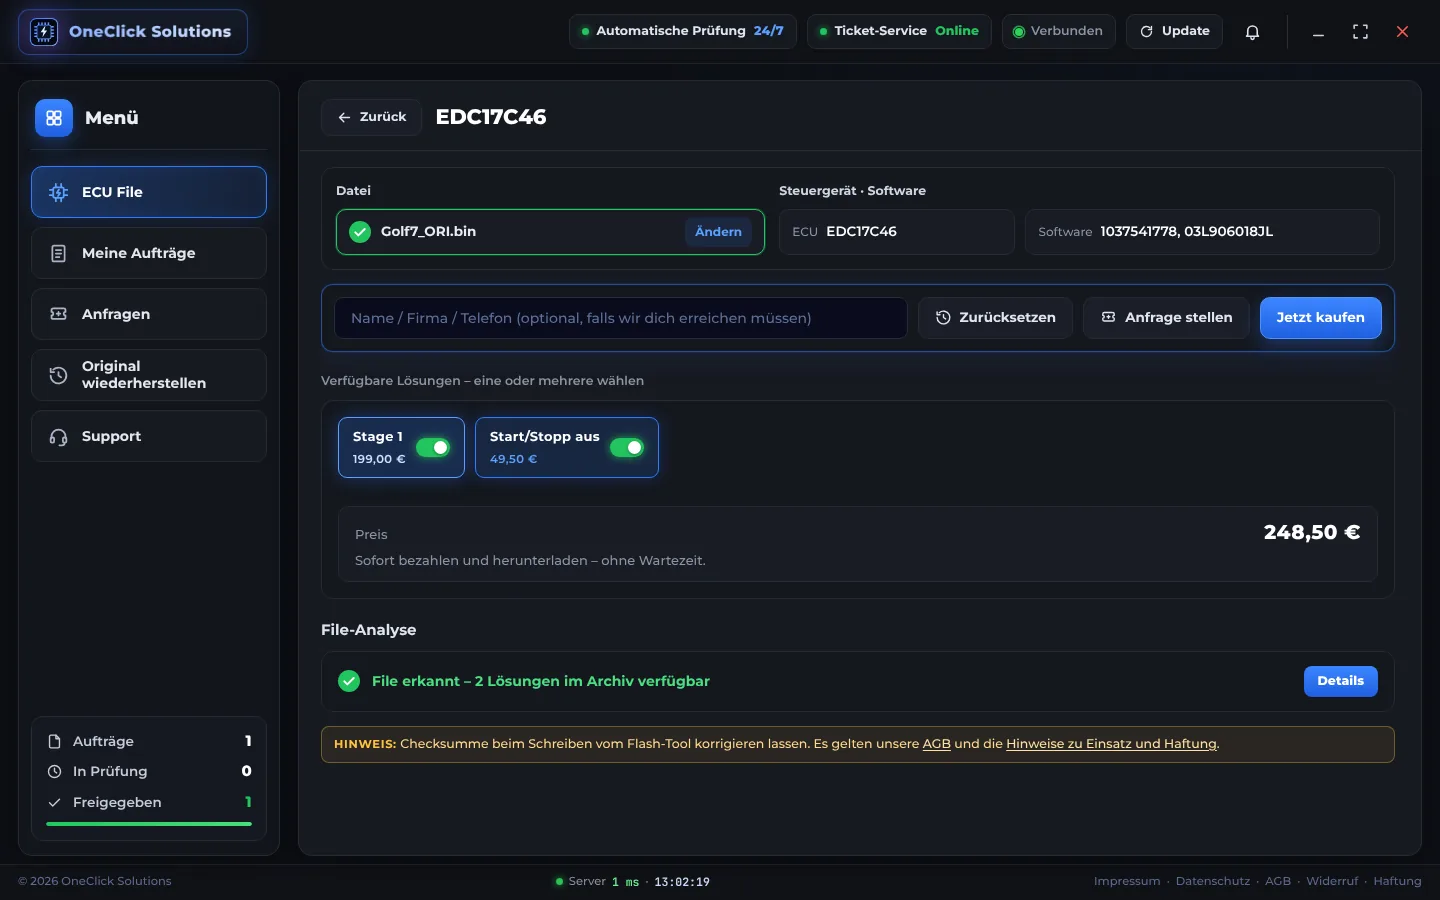
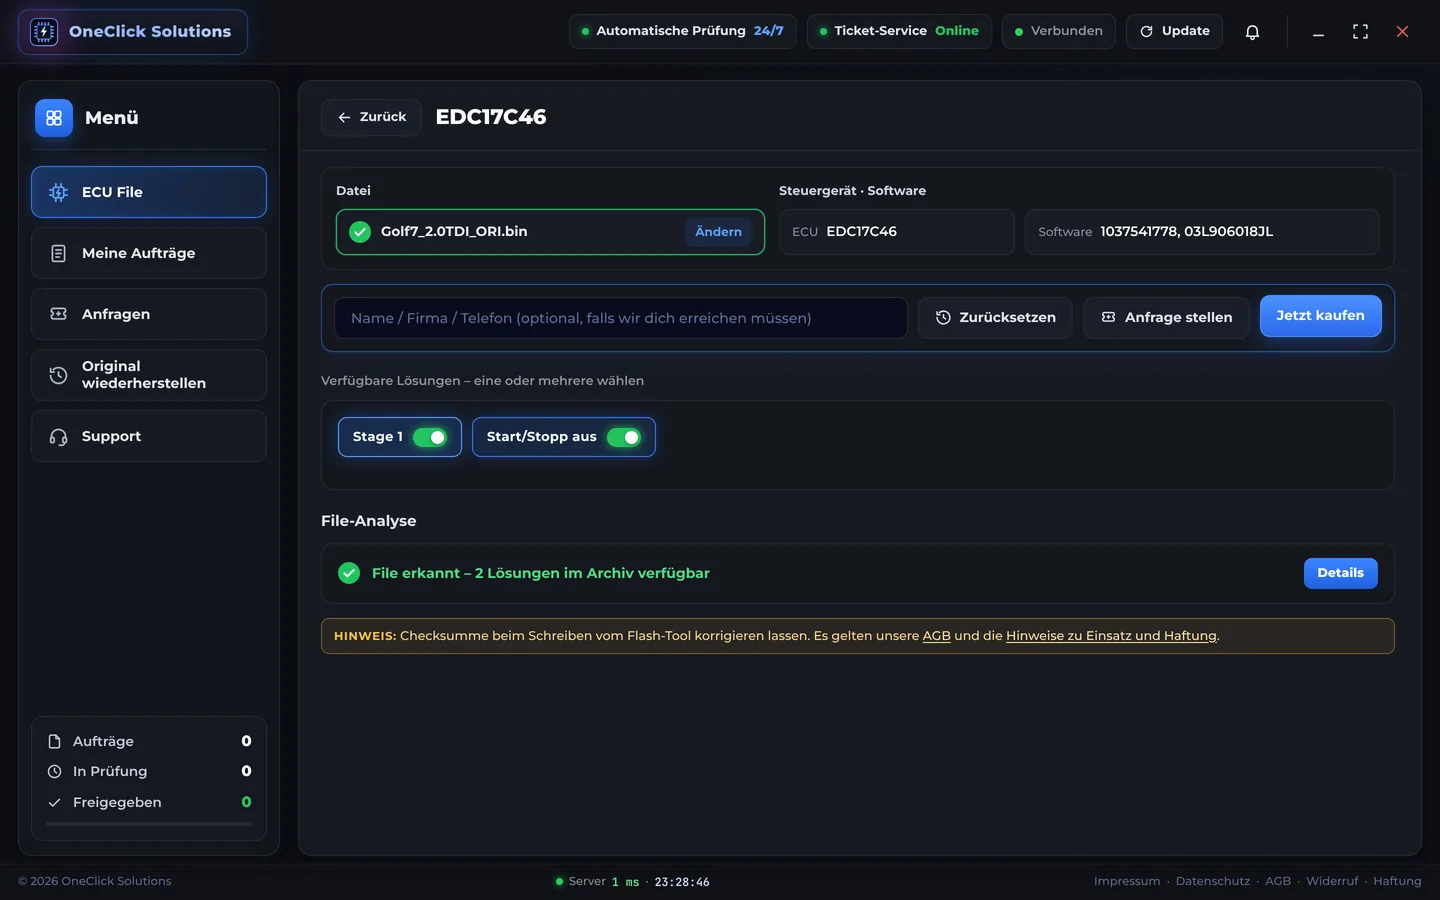
OneClick-Werbeseite: SEO und AEO
- Titel/Beschreibung, Canonical, Open-Graph-Vorschaubild
- Strukturierte Daten: SoftwareApplication, Organization, HowTo, FAQPage (aus einer FAQ-Liste)
- 9 FAQ als Ueberschriften, robots.txt (KI-Dienste erlaubt, Admin/API gesperrt), sitemap.xml, llms.txt
- Admin/Login/Auftraege mit noindex; Rechtstexte mit eigenem Seitentitel
- Programmbild ohne Testpreise

Claude-Session: https://claude.ai/code/session_01QWRn1jTpRRmgaftmLzzd25

diff --git a/app.py b/app.py
@@ -372,6 +372,8 @@ def merken(art: str):
 
 @app.after_request
 def sicherheits_header(antwort):
+    if request.path.startswith(("/admin", "/login", "/api/", "/auftrag/", "/download/", "/logout")):
+        antwort.headers.setdefault("X-Robots-Tag", "noindex, nofollow")
     antwort.headers.setdefault("X-Content-Type-Options", "nosniff")
     antwort.headers.setdefault("X-Frame-Options", "DENY")
     antwort.headers.setdefault("Referrer-Policy", "same-origin")
@@ -614,9 +616,63 @@ def favicon():
 
 @app.route("/bilder/<name>")
 def bild(name):
-    if not re.fullmatch(r"[a-z0-9-]+\.webp", name) or not (BASE / "web" / "bilder" / name).is_file():
+    if not re.fullmatch(r"[a-z0-9-]+\.(webp|png)", name) or not (BASE / "web" / "bilder" / name).is_file():
         abort(404)
-    return send_file(BASE / "web" / "bilder" / name, mimetype="image/webp", max_age=86400)
+    return send_file(BASE / "web" / "bilder" / name, mimetype="image/png" if name.endswith(".png") else "image/webp", max_age=86400)
+
+
+# Fragen der Werbeseite: sichtbar als FAQ und gleichzeitig als strukturierte Daten fuer Google und KI-Antwortdienste
+WERBE_FAQ = [
+    ("Was kostet das Programm?", "Nichts. Du bezahlst nur die Files, die du bestellst – zu festen Preisen, ohne Abo und ohne Credits."),
+    ("Wie lange dauert es, bis ich mein File habe?", "Liegt dein File schon in unserem Archiv, lädst du es direkt nach der Zahlung herunter – rund um die Uhr. "
+     "Bei einer Anfrage erstellen wir das File individuell, das Programm meldet sich, sobald es fertig ist."),
+    ("Wie bezahle ich?", "Sicher über Stripe direkt im Programm – mit Karte, Apple Pay, PayPal und mehr. Die Rechnung kommt per E-Mail."),
+    ("Brauche ich ein Konto?", "Nein. Deine Aufträge merkt sich das Programm auf deinem PC."),
+    ("Für welche Steuergeräte gibt es Files?", "Für alles, was in unserem Archiv liegt – das Programm zeigt es dir sofort nach dem Laden. "
+     "Ist nichts dabei, stellst du eine Anfrage und wir erstellen dein File."),
+    ("Brauche ich ein eigenes Flash-Tool?", "Ja. Du liest das Original selbst aus und spielst das fertige File mit deinem Tool auf – "
+     "zum Beispiel mit dem Magic Motorsport Flex. Die Checksumme korrigiert dein Flash-Tool beim Schreiben."),
+    ("Was mache ich, wenn es ein Problem mit dem File gibt?", "Öffne im Programm unter „Support“ ein Ticket oder klick am Auftrag auf „Problem?“. "
+     "Häng Fehlercodes, Logs oder Screenshots an – wir antworten im Programm und schicken dir ein angepasstes File direkt in den Chat."),
+    ("Gibt es das Programm für Mac oder Handy?", "Für den Mac ja (macOS 11 oder neuer, Intel und Apple-Chip). Fürs Handy gibt es OneClick Solutions nicht – "
+     "du brauchst einen Windows-PC, Laptop oder Mac."),
+    ("Wer steckt hinter OneClick Solutions?", "GH-MAPPING, ein Chiptuning-Fileservice aus Dierdorf (Rheinland-Pfalz). "
+     "Alle Files im Archiv werden in einer lizenzierten WinOLS-5-Umgebung erstellt und geprüft."),
+]
+
+
+def basis_adresse() -> str:
+    return (lade_config().get("basis_url") or request.url_root).rstrip("/")
+
+
+def werbe_daten() -> str:
+    """Strukturierte Daten (schema.org) der Werbeseite als JSON-LD."""
+    b = basis_adresse()
+    daten = {"@context": "https://schema.org", "@graph": [
+        {"@type": "Organization", "@id": "https://gh-mapping.de/#business", "name": "GH-MAPPING", "url": "https://gh-mapping.de/",
+         "email": "chiptuning2002@gmail.com", "telephone": "+49 155 68540674",
+         "address": {"@type": "PostalAddress", "streetAddress": "Hachenburgerstraße 3", "postalCode": "56269",
+                     "addressLocality": "Dierdorf", "addressCountry": "DE"}},
+        {"@type": "WebSite", "@id": b + "/#website", "url": b + "/", "name": PROGRAMM_NAME, "inLanguage": "de-DE",
+         "publisher": {"@id": "https://gh-mapping.de/#business"}},
+        {"@type": "SoftwareApplication", "@id": b + "/#programm", "name": PROGRAMM_NAME, "url": b + "/",
+         "applicationCategory": "BusinessApplication", "operatingSystem": "Windows 10, Windows 11, macOS 11 oder neuer",
+         "description": "Programm zum Bestellen von Chiptuning-Files: Original laden, Steuergerät und Software werden erkannt, "
+                        "Lösung wählen, sicher über Stripe bezahlen und das File sofort herunterladen. Kein Abo.",
+         "downloadUrl": [b + "/download/windows", b + "/download/mac"],
+         "screenshot": [b + "/bilder/programm-auswahl.webp", b + "/bilder/programm-auftraege.webp", b + "/bilder/programm-support.webp"],
+         "featureList": ["Automatische Erkennung von Steuergerät und Software", "Sofort-Kauf von Files aus dem Archiv",
+                         "Anfrage, wenn noch kein File vorhanden ist", "Support-Tickets mit Datei-Anhängen", "Automatische Updates"],
+         "offers": {"@type": "Offer", "price": "0", "priceCurrency": "EUR"},
+         "publisher": {"@id": "https://gh-mapping.de/#business"}},
+        {"@type": "HowTo", "name": "Chiptuning-File mit OneClick Solutions bestellen", "step": [
+            {"@type": "HowToStep", "position": 1, "name": "Programm laden", "text": "OneClick Solutions für Windows oder Mac herunterladen und starten."},
+            {"@type": "HowToStep", "position": 2, "name": "Original laden", "text": "Das ausgelesene Original-File ins Programm ziehen."},
+            {"@type": "HowToStep", "position": 3, "name": "Lösung wählen", "text": "Eine oder mehrere Lösungen anschalten und auf „Jetzt kaufen“ klicken."},
+            {"@type": "HowToStep", "position": 4, "name": "Bezahlen und laden", "text": "Über Stripe bezahlen und das File sofort herunterladen."}]},
+        {"@type": "FAQPage", "mainEntity": [{"@type": "Question", "name": q, "acceptedAnswer": {"@type": "Answer", "text": a}}
+                                            for q, a in WERBE_FAQ]}]}
+    return json.dumps(daten, ensure_ascii=False).replace("</", "<\\/")
 
 
 @app.route("/programm")
@@ -624,7 +680,60 @@ def programm_seite():
     """Werbeseite fuer das Windows-Programm - das ist alles, was Kunden im Browser sehen."""
     cfg = lade_config()
     return render_template("werbung.html", download="/download/windows", download_mac="/download/mac", firma=PROGRAMM_NAME, jahr=datetime.now().year,
-                           whatsapp=re.sub(r"[^0-9]", "", cfg.get("support_whatsapp", STANDARD_WHATSAPP) or ""))
+                           whatsapp=re.sub(r"[^0-9]", "", cfg.get("support_whatsapp", STANDARD_WHATSAPP) or ""),
+                           faq=WERBE_FAQ, jsonld=werbe_daten(), basis=basis_adresse())
+
+
+@app.route("/robots.txt")
+def robots_txt():
+    text = f"""User-agent: *
+Allow: /
+Disallow: /admin
+Disallow: /login
+Disallow: /api/
+Disallow: /auftrag/
+Disallow: /download/
+
+# KI-Suchmaschinen und Antwort-Dienste ausdruecklich erlaubt (gleiche Regeln)
+User-agent: GPTBot
+User-agent: OAI-SearchBot
+User-agent: ChatGPT-User
+User-agent: ClaudeBot
+User-agent: Claude-SearchBot
+User-agent: PerplexityBot
+User-agent: Google-Extended
+Allow: /
+Disallow: /admin
+Disallow: /login
+Disallow: /api/
+Disallow: /auftrag/
+Disallow: /download/
+
+Sitemap: {basis_adresse()}/sitemap.xml
+"""
+    return app.response_class(text, mimetype="text/plain")
+
+
+@app.route("/sitemap.xml")
+def sitemap_xml():
+    b = basis_adresse()
+    seiten = [("/", "1.0")] + [(f"/{n}", "0.3") for n in RECHTLICHES]
+    xml = ('<?xml version="1.0" encoding="UTF-8"?>\n<urlset xmlns="http://www.sitemaps.org/schemas/sitemap/0.9">\n'
+           + "".join(f"  <url><loc>{b}{u}</loc><priority>{pr}</priority></url>\n" for u, pr in seiten) + "</urlset>\n")
+    return app.response_class(xml, mimetype="application/xml")
+
+
+@app.route("/llms.txt")
+def llms_txt():
+    b = basis_adresse()
+    text = (f"# {PROGRAMM_NAME}\n\n> {PROGRAMM_NAME} ist das Programm des Chiptuning-Fileservice GH-MAPPING aus Dierdorf (Deutschland) "
+            "für Windows und Mac. Kunden laden ihr ausgelesenes Original-File, das Programm erkennt Steuergerät und Software und zeigt die "
+            "verfügbaren Lösungen. Files aus dem Archiv werden sofort gekauft (Stripe) und heruntergeladen; gibt es noch nichts, stellt der "
+            "Kunde eine Anfrage. Kein Abo, keine Credits. Die Files werden in einer lizenzierten WinOLS-5-Umgebung erstellt.\n\n"
+            f"## Links\n- Programm und Download: {b}/\n- Windows: {b}/download/windows\n- Mac: {b}/download/mac\n"
+            "- Fileservice-Website: https://gh-mapping.de/\n- Kontakt: chiptuning2002@gmail.com, WhatsApp +49 155 68540674\n\n"
+            "## Häufige Fragen\n" + "".join(f"\n### {q}\n{a}\n" for q, a in WERBE_FAQ))
+    return app.response_class(text, mimetype="text/plain")
 
 
 @app.route("/")
@@ -2878,7 +2987,7 @@ TEMPLATES = {
 "basis.html": """<!doctype html>
 <html lang="de"><head><meta charset="utf-8">
 <meta name="viewport" content="width=device-width, initial-scale=1">
-<title>{{ firma }}</title>
+<title>{% if titel is defined and titel %}{{ titel }} | {{ programm_name }}{% else %}{{ firma }}{% endif %}</title>
 <meta name="theme-color" content="#040919">
[1 lines of base64/hex data omitted]
 <style>
@@ -3524,8 +3633,17 @@ Es wird kein Auftrag angelegt, nichts bezahlt und keine Nachricht verschickt.</p
 {% endblock %}""",
 "werbung.html": """<!doctype html>
 <html lang="de"><head><meta charset="utf-8"><meta name="viewport" content="width=device-width, initial-scale=1">
-<title>{{ firma }} – Programm für Windows und Mac</title>
-<meta name="description" content="OneClick Solutions: Chiptuning-Files als Programm für Windows und Mac. Original laden, Lösung wählen, sofort bezahlen und herunterladen. Kein Abo.">
+<title>OneClick Solutions – Chiptuning-Files sofort laden | Windows &amp; Mac</title>
+<meta name="description" content="Kostenloses Programm für Chiptuning-Files: Original laden, Lösung wählen, über Stripe bezahlen und sofort herunterladen. Windows &amp; Mac, ohne Abo.">
+<link rel="canonical" href="{{ basis }}/">
+<meta name="robots" content="index, follow, max-image-preview:large">
+<meta property="og:type" content="website"><meta property="og:site_name" content="{{ firma }}"><meta property="og:locale" content="de_DE">
+<meta property="og:url" content="{{ basis }}/"><meta property="og:title" content="OneClick Solutions – Chiptuning-Files mit einem Klick">
+<meta property="og:description" content="Original laden, Lösung wählen, sofort herunterladen. Kostenlos für Windows &amp; Mac, ohne Abo.">
+<meta property="og:image" content="{{ basis }}/bilder/og-oneclick.png"><meta property="og:image:width" content="1200"><meta property="og:image:height" content="630">
+<meta property="og:image:alt" content="OneClick Solutions – Programm für Chiptuning-Files">
+<meta name="twitter:card" content="summary_large_image"><meta name="twitter:image" content="{{ basis }}/bilder/og-oneclick.png">
+<script type="application/ld+json">{{ jsonld|safe }}</script>
 <meta name="theme-color" content="#0d0f14">
[1 lines of base64/hex data omitted]
 <link rel="alternate icon" href="/favicon.ico">
@@ -3585,7 +3703,7 @@ h2{font-size:clamp(26px,3.4vw,38px);margin:0 0 10px;font-weight:800;letter-spaci
 .hinweis{margin-top:22px;padding:16px 18px;border-radius:12px;border:1px solid rgba(255,194,61,.35);background:rgba(255,194,61,.07);color:#ffd88a;font-size:14.5px}
 .hinweis b{color:#ffc23d}
 .faq details{border:1px solid var(--rand);background:var(--karte);border-radius:12px;padding:16px 18px;margin-bottom:10px}
-.faq summary{cursor:pointer;font-weight:700}.faq p{color:var(--leise);margin:10px 0 0}
+.faq summary{cursor:pointer;font-weight:700}.faq summary h3{display:inline;font:inherit;margin:0}.faq p{color:var(--leise);margin:10px 0 0}
 .cta{text-align:center;padding:50px 24px;border-radius:18px;border:1px solid rgba(47,123,255,.45);
  background:radial-gradient(600px 240px at 50% 0%,rgba(47,123,255,.22),transparent 70%),var(--karte)}
 .cta p{color:var(--leise);margin:0 0 24px}
@@ -3650,12 +3768,8 @@ footer .rechts{margin-left:auto;display:flex;gap:16px;flex-wrap:wrap}
 </div></section>
 <section id="faq" class="faq"><div class="breit">
  <h2>Häufige Fragen</h2><p class="unter">Noch etwas offen? Schreib uns einfach.</p>
- <details><summary>Was kostet das Programm?</summary><p>Nichts. Du bezahlst nur die Files, die du bestellst – zu festen Preisen, ohne Abo.</p></details>
- <details><summary>Brauche ich ein Konto?</summary><p>Nein. Deine Aufträge merkt sich das Programm auf deinem PC.</p></details>
- <details><summary>Für welche Steuergeräte gibt es Files?</summary><p>Für alles, was in unserem Archiv liegt – das Programm zeigt es dir sofort nach dem Laden. Ist nichts dabei, stellst du eine Anfrage und wir erstellen dein File.</p></details>
- <details><summary>Was mache ich, wenn es ein Problem mit dem File gibt?</summary><p>Öffne im Programm unter „Support“ ein Ticket oder klick am Auftrag auf „Problem?“. Häng Fehlercodes, Logs oder Screenshots an – wir antworten im Programm und schicken dir ein angepasstes File direkt in den Chat.</p></details>
- <details><summary>Muss ich die Checksumme korrigieren?</summary><p>Ja, lass die Checksumme beim Schreiben von deinem Flash-Tool korrigieren.</p></details>
- <details><summary>Gibt es das Programm für Mac oder Handy?</summary><p>Für den Mac ja (macOS 11 oder neuer, Intel und Apple-Chip). Fürs Handy gibt es OneClick Solutions nicht – du brauchst einen Windows-PC, Laptop oder Mac.</p></details>
+ {% for q, a in faq %}<details{{ ' open' if loop.first }}><summary><h3>{{ q }}</h3></summary><p>{{ a }}</p></details>
+ {% endfor %}
 </div></section>
 <section><div class="breit"><div class="cta">
  <h2>Bereit für dein nächstes File?</h2><p>Programm laden, Original rein, fertig.</p>
@@ -3663,7 +3777,7 @@ footer .rechts{margin-left:auto;display:flex;gap:16px;flex-wrap:wrap}
  <div class="handy-hinweis" style="max-width:520px;margin:0 auto">Bitte öffne diese Seite am Windows-PC, Laptop oder Mac.</div>
  {% if whatsapp %}<p style="margin:18px 0 0"><a class="btn grau" href="https://wa.me/{{ whatsapp }}" target="_blank" rel="noopener">Fragen? Per WhatsApp schreiben</a></p>{% endif %}
 </div></div></section>
-<footer><div class="breit"><span>© {{ jahr }} {{ firma }}</span>
+<footer><div class="breit"><span>© {{ jahr }} {{ firma }} · ein Service von <a href="https://gh-mapping.de/">GH-MAPPING</a>, Dierdorf</span>
  <span class="rechts"><a href="/impressum">Impressum</a><a href="/datenschutz">Datenschutz</a><a href="/agb">AGB</a><a href="/widerruf">Widerruf</a><a href="/haftung">Haftung</a><a href="/login">Admin</a></span></div></footer>
 <script>
 if(/iPhone|iPad|iPod|Android|Mobile/i.test(navigator.userAgent)){document.querySelectorAll('.pc').forEach(function(e){e.style.display='none'});

diff --git a/tests/test_oneclick.py b/tests/test_oneclick.py
@@ -677,6 +677,34 @@ class WebTests(Basis):
         # Anmeldung bleibt gleich streng: ohne Login kein Admin, auch nicht mit App-Kennung
         self.assertEqual(c.get("/admin", headers=app_ua).status_code, 302)
 
+    def test_werbeseite_seo(self):
+        b = A.app.test_client()
+        browser = {"User-Agent": "Mozilla/5.0 Chrome/130"}
+        seite = b.get("/", headers=browser).text
+        self.assertIn('<link rel="canonical"', seite)
+        self.assertIn('property="og:image"', seite)
+        ld = json.loads(re.search(r'<script type="application/ld\+json">(.*?)</script>', seite, re.S).group(1))
+        typen = [g["@type"] for g in ld["@graph"]]
+        for t in ("SoftwareApplication", "FAQPage", "HowTo", "Organization"):
+            self.assertIn(t, typen)
+        faq = next(g for g in ld["@graph"] if g["@type"] == "FAQPage")["mainEntity"]
+        self.assertEqual(len(faq), len(A.WERBE_FAQ))
+        for q, _ in A.WERBE_FAQ:                                         # sichtbar UND in den Daten
+            self.assertIn(html.escape(q, quote=False), seite)
+        r = b.get("/robots.txt").text
+        self.assertIn("Disallow: /admin", r)
+        self.assertIn("Sitemap:", r)
+        self.assertIn("GPTBot", r)
+        self.assertIn("/impressum</loc>", b.get("/sitemap.xml").text)
+        self.assertIn("## Häufige Fragen", b.get("/llms.txt").text)
+        self.assertEqual(b.get("/bilder/og-oneclick.png").mimetype, "image/png")
+        # Admin, Login, Auftraege nicht in Google; Rechtstexte schon (mit eigenem Titel)
+        self.assertEqual(b.get("/login", headers=browser).headers.get("X-Robots-Tag"), "noindex, nofollow")
+        self.assertIsNone(b.get("/", headers=browser).headers.get("X-Robots-Tag"))
+        imp = b.get("/impressum", headers=browser)
+        self.assertIsNone(imp.headers.get("X-Robots-Tag"))
+        self.assertIn("<title>Impressum | OneClick Solutions</title>", imp.text)
+
     def test_rechtstexte_im_programm_mit_zurueck(self):
         for url in ["/impressum", "/datenschutz", "/agb", "/widerruf", "/haftung"]:
             self.assertIn("Zurück zum Programm", self.kunde.get(url).text)          # im Programm: Weg zurueck
